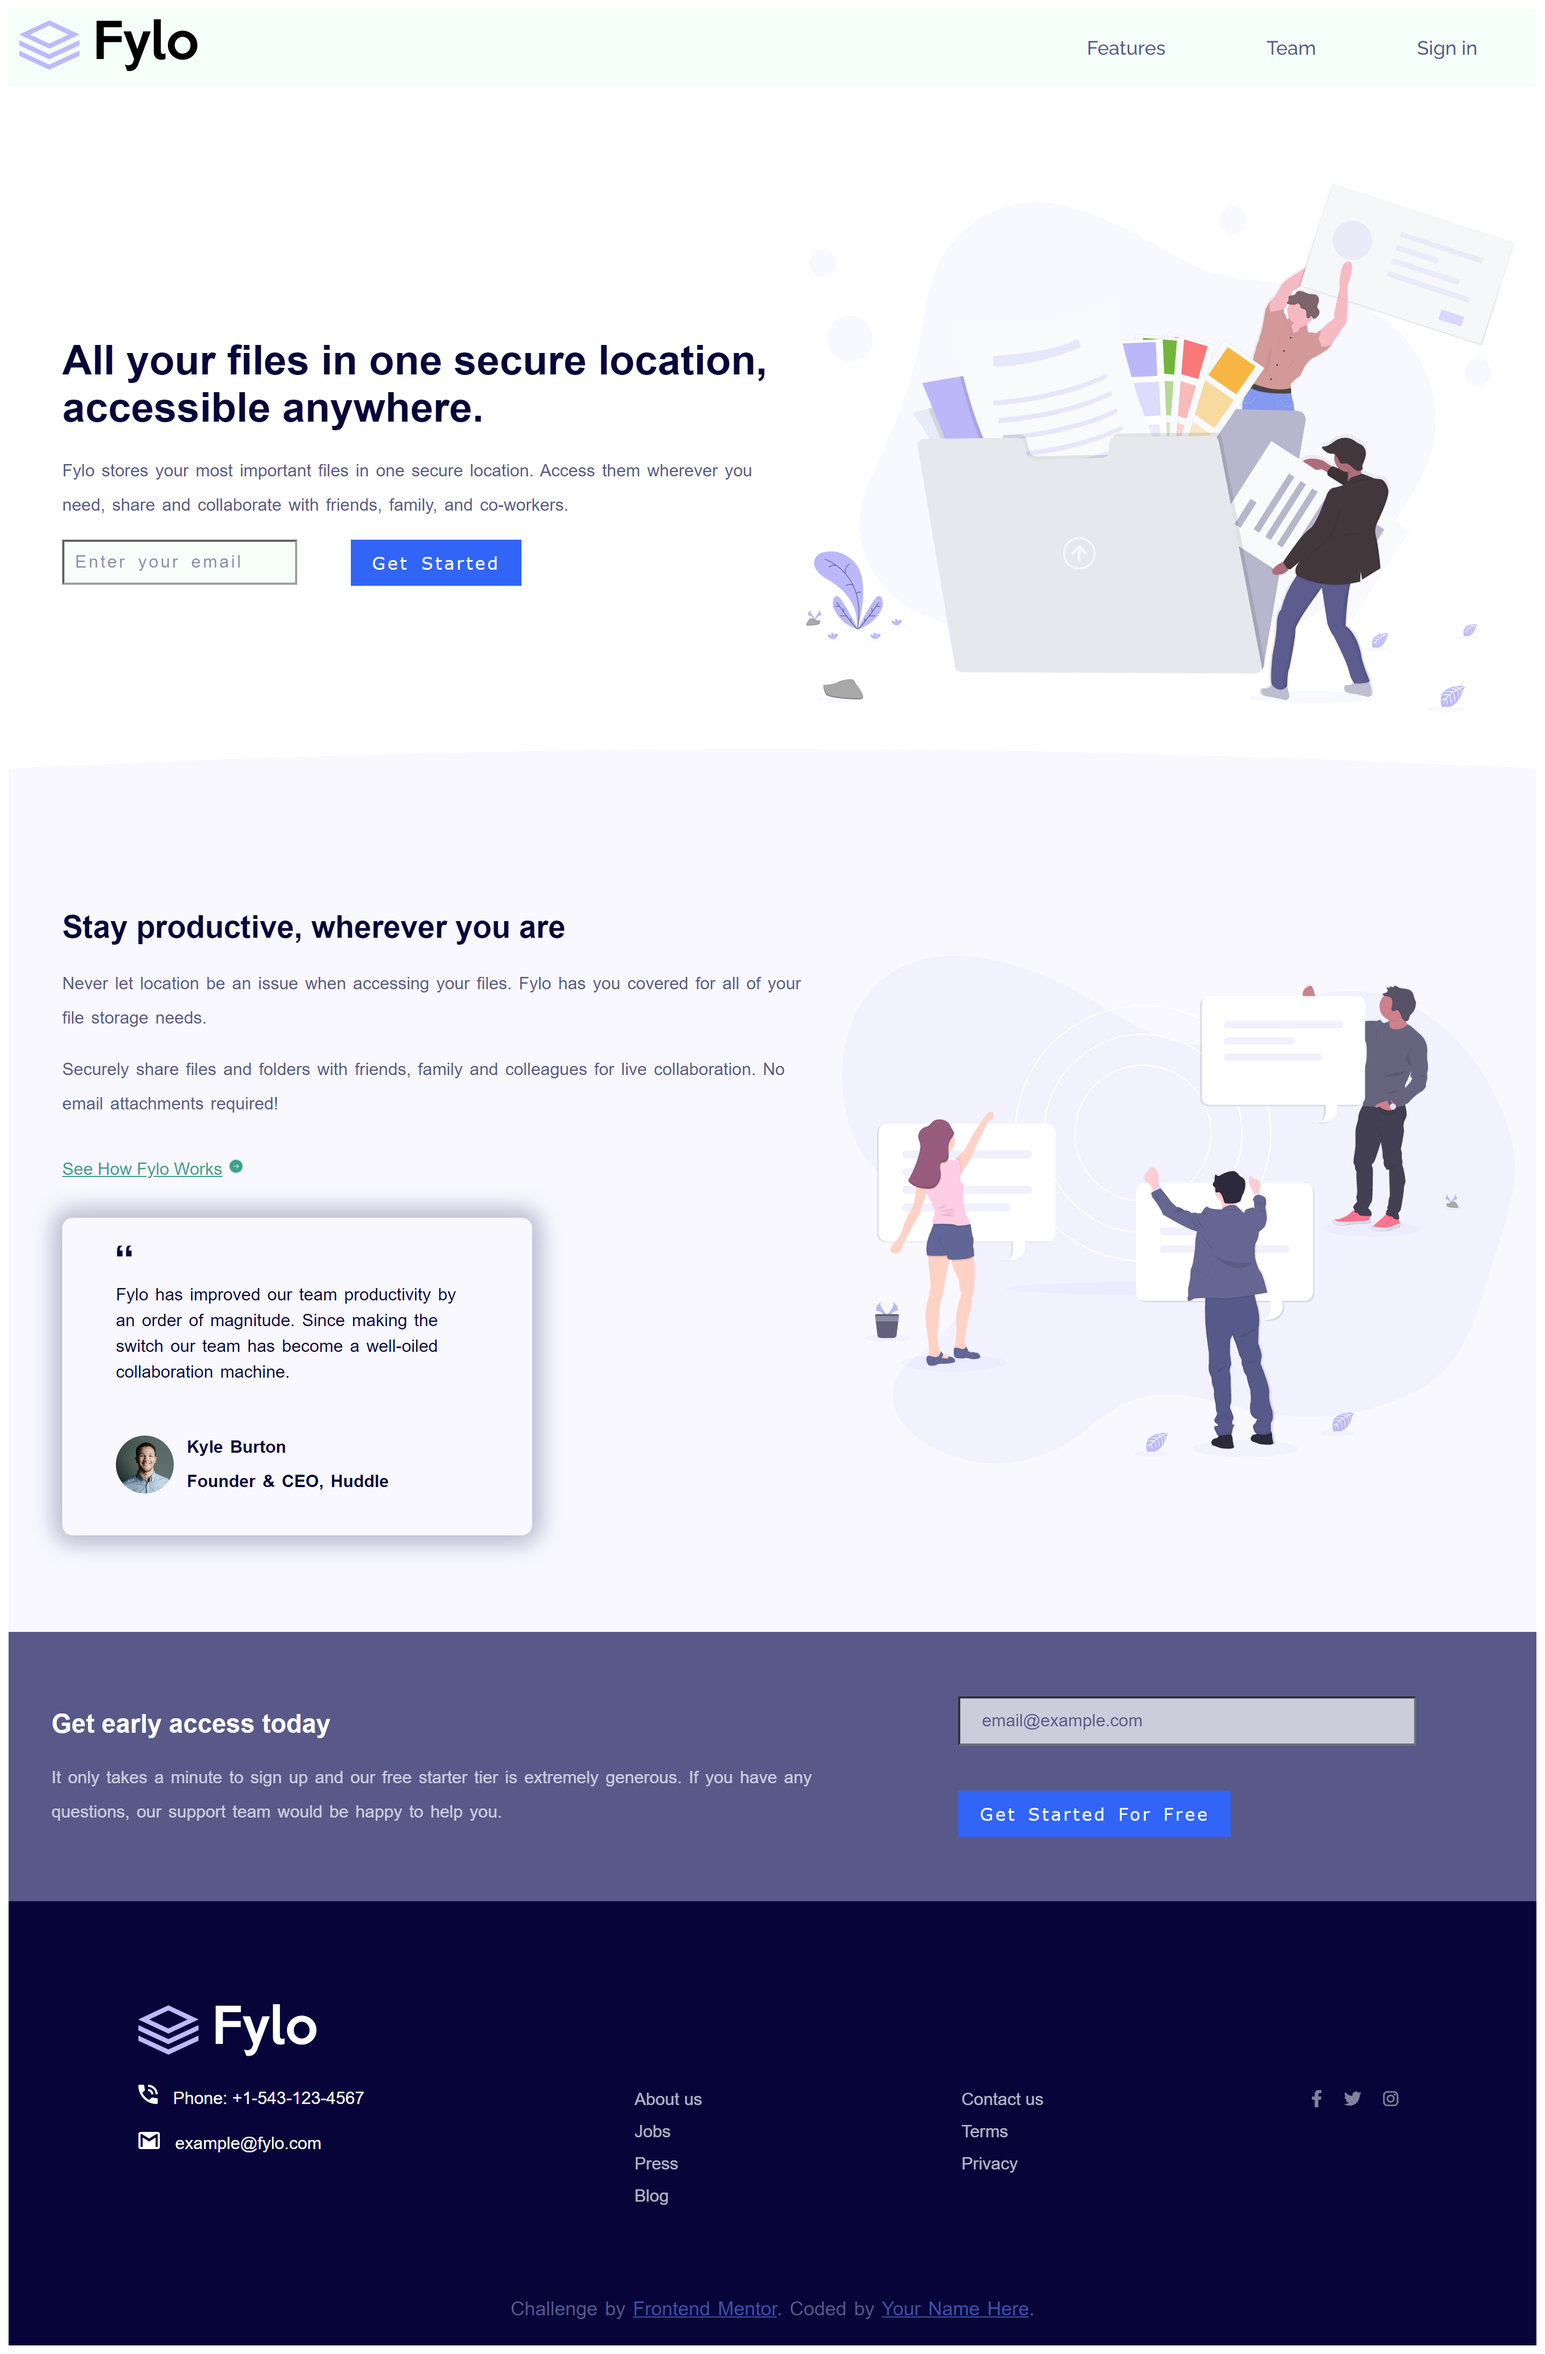
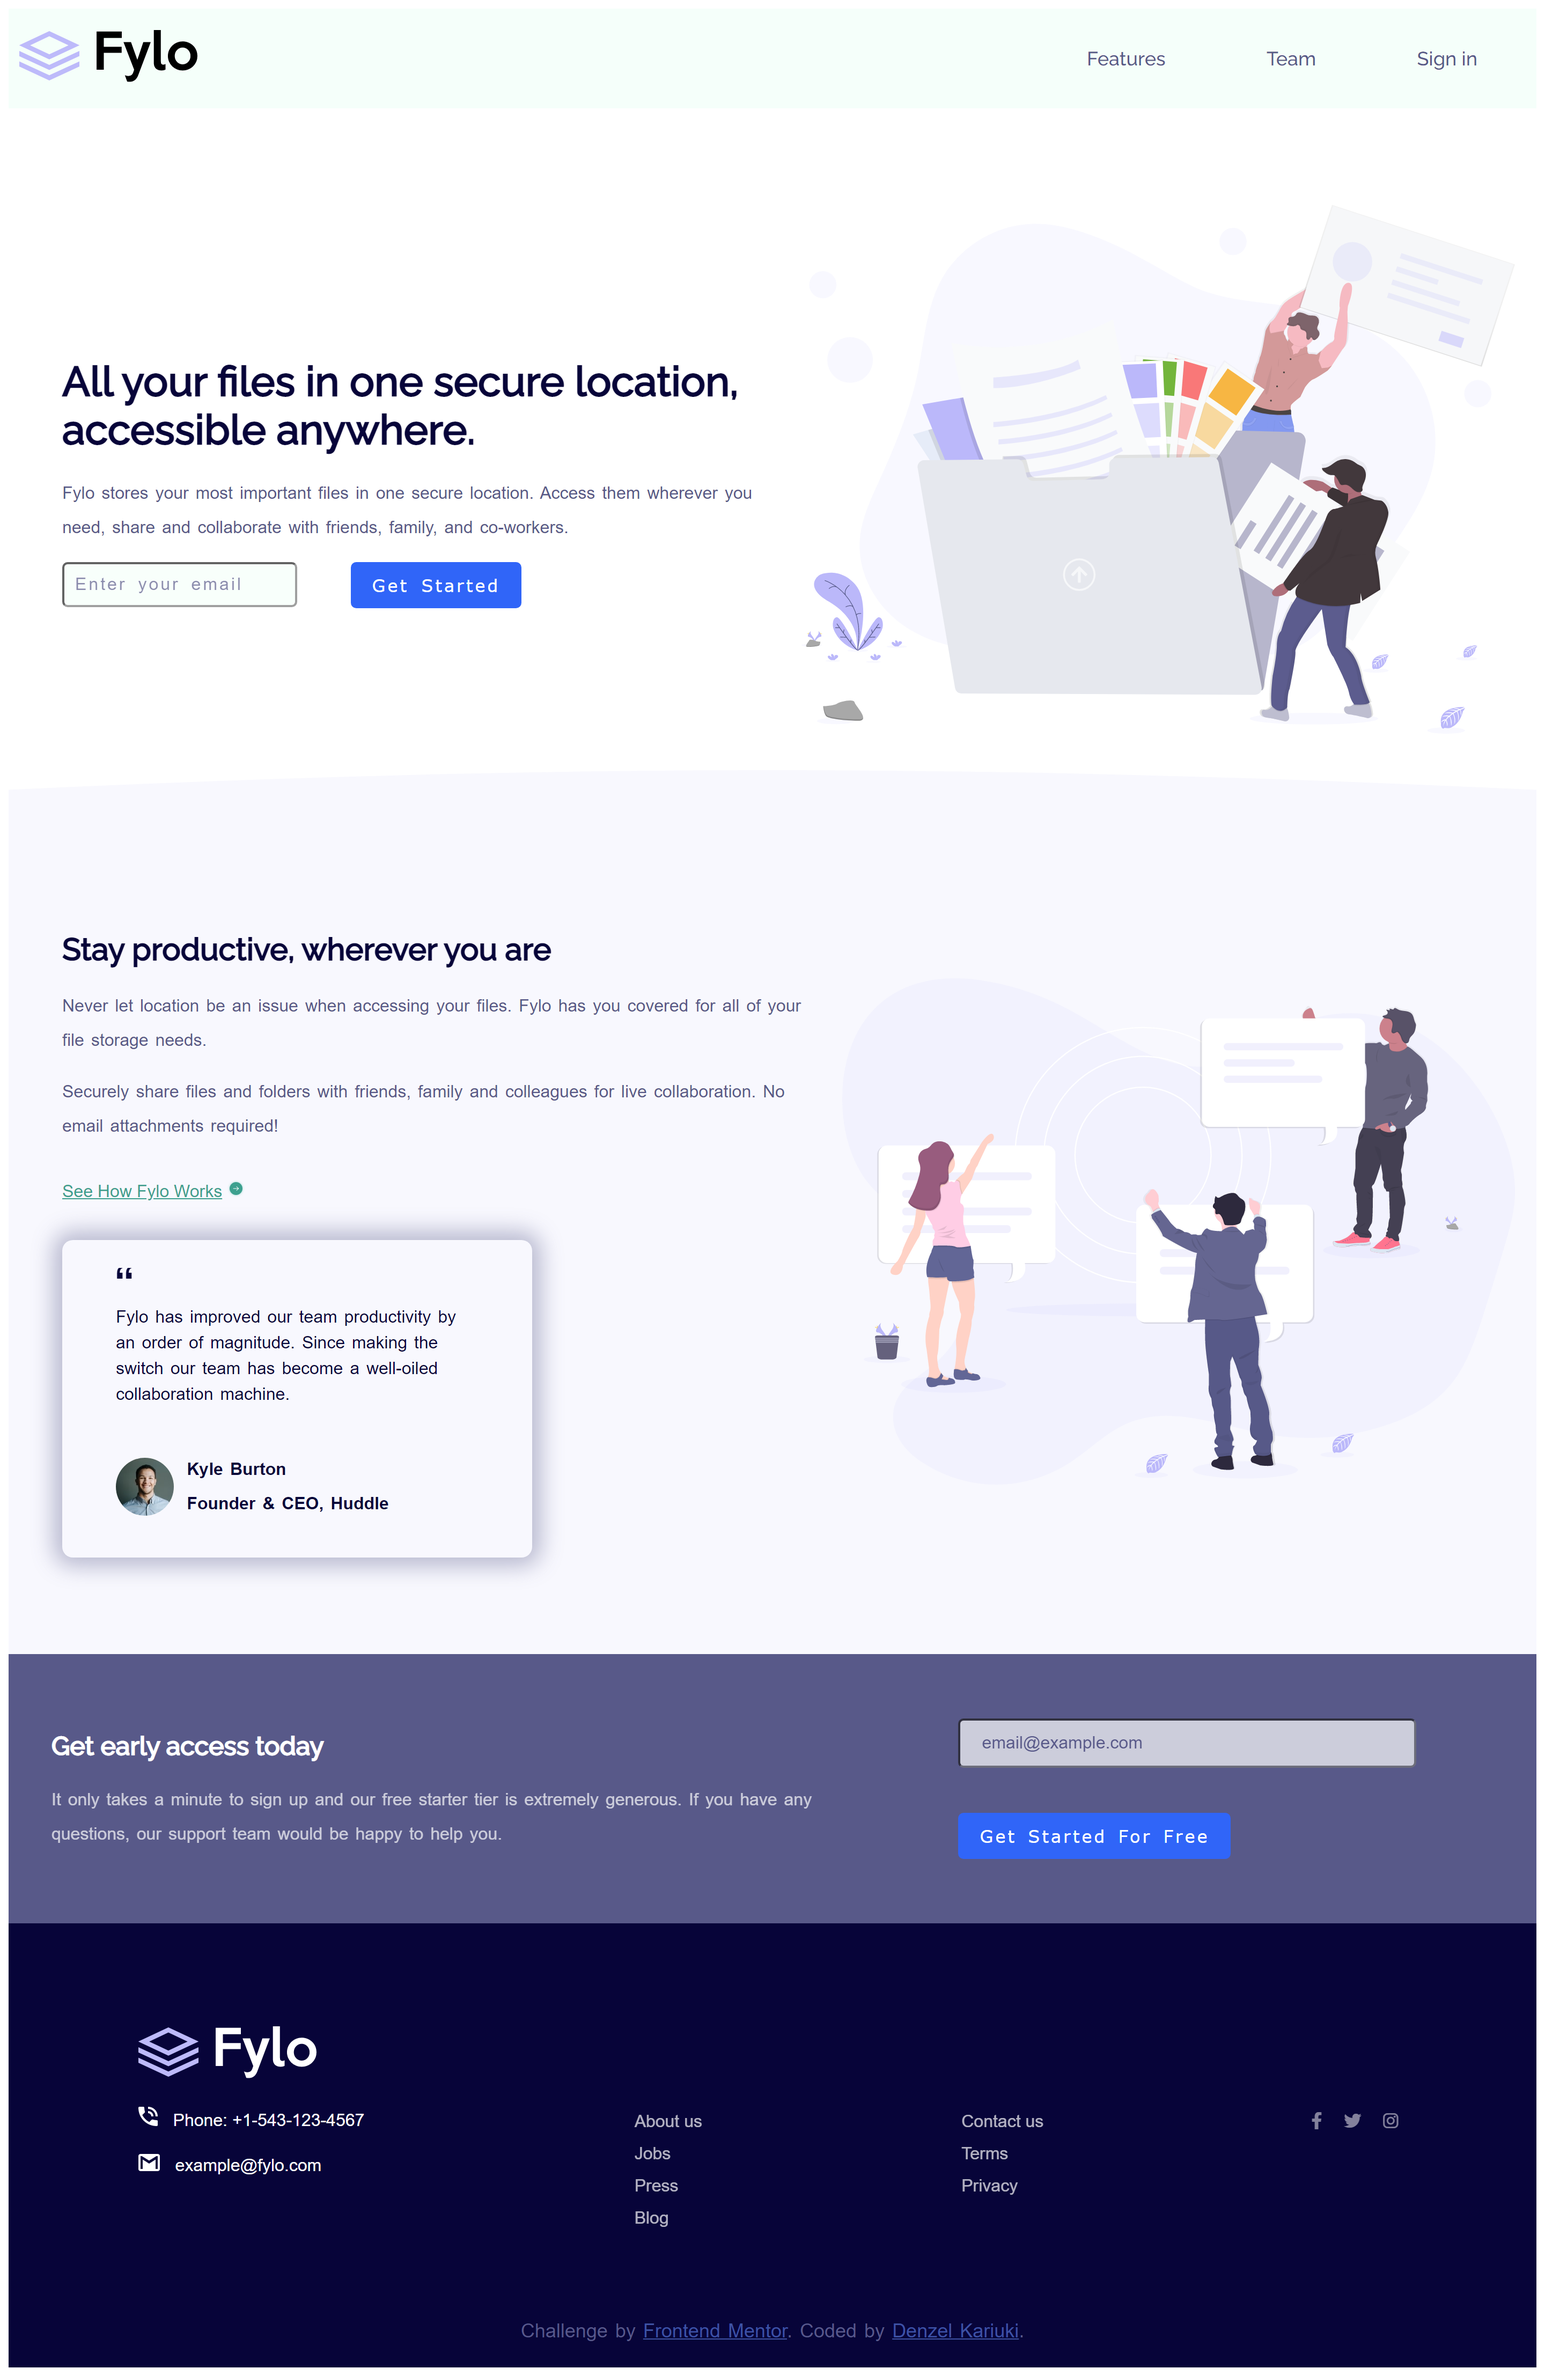
update files

diff --git a/index.css b/index.css
@@ -4,6 +4,7 @@
 @media (max-width:1440px) {
     h1, h2 {
         color: hsl(243, 87%, 12%);
+        font-family: "raleway", sans-serif;
     }
     p {
         color: hsl(238, 22%, 44%);
@@ -18,7 +19,7 @@
         align-items: center;
         align-content: center;
         background-color: mintcream;
-        padding: 10px;
+        padding: 20px 10px;
         font-family: "raleway", sans-serif;
     }
     .nav-itm {
@@ -95,6 +96,9 @@
         font-weight: 600;
         background-color: hsl(230, 93%, 45%);
         cursor: pointer;
+    }
+    .start, .start1, .btn, .btn2 {
+        border-radius: 5px;
     }
     .start {
         padding: 10px;

diff --git a/index.html b/index.html
@@ -76,10 +76,10 @@
               <br>
             <footer class="block-foot">
               <img src="images/avatar-testimonial.jpg" alt="testimonial">
-              <span class="acknowledge">
+              <div class="acknowledge">
                 <p>Kyle Burton</p>
                 <p>Founder & CEO, Huddle</p>
-              </span>
+              </div>
             </footer>
           </blockquote>
         </div>
